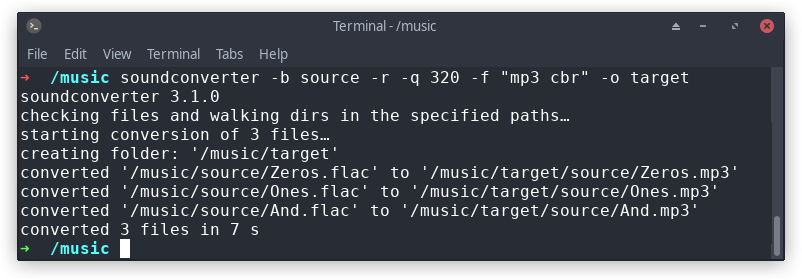
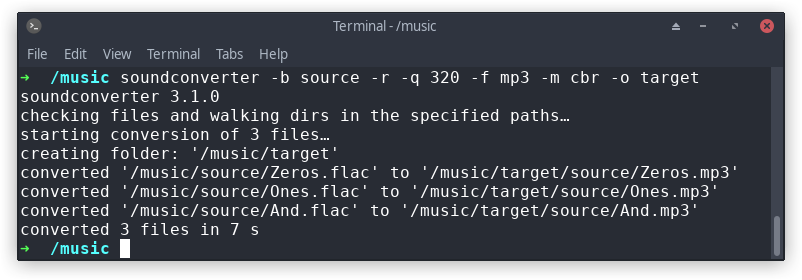
changed to specifying the mode with -m

Changed region(s): [[0.6234, 0.2571, 0.8728, 0.3143]]

diff --git a/tests/testcases/integration.py b/tests/testcases/integration.py
@@ -98,7 +98,7 @@ class BatchIntegration(unittest.TestCase):
             '-f', 'm4a',
             '-q', '320'
         ])
-        self.assertEqual(settings['mode'], 'batch')
+        self.assertEqual(settings['main'], 'batch')
         self.assertEqual(settings['debug'], False)
         self.assertEqual(settings['recursive'], False)
         self.assertTrue(os.path.isfile('tests/tmp/320/a.m4a'))
@@ -130,17 +130,19 @@ class BatchIntegration(unittest.TestCase):
             '-b',
             'tests/test data/audio/a.wav',
             '-o', 'tests/tmp/8',
-            '-f', 'mp3 vbr',
+            '-f', 'mp3',
+            '-m', 'vbr',
             '-q', 8  # smaller
         ])
         launch([
             '-b',
             'tests/test data/audio/a.wav',
             '-o', 'tests/tmp/2',
-            '-f', 'mp3 vbr',
+            '-f', 'mp3',
+            '-m', 'vbr',
             '-q', 2
         ])
-        self.assertEqual(settings['mode'], 'batch')
+        self.assertEqual(settings['main'], 'batch')
         self.assertEqual(settings['debug'], False)
         self.assertEqual(settings['recursive'], False)
         self.assertTrue(os.path.isfile('tests/tmp/8/a.mp3'))
@@ -161,17 +163,19 @@ class BatchIntegration(unittest.TestCase):
             '-b',
             'tests/test data/audio/a.wav',
             '-o', 'tests/tmp/320',
-            '-f', 'mp3 abr',
+            '-f', 'mp3',
+            '-m', 'abr',
             '-q', 320
         ])
         launch([
             '-b',
             'tests/test data/audio/a.wav',
             '-o', 'tests/tmp/112',
-            '-f', 'mp3 abr',
+            '-f', 'mp3',
+            '-m', 'abr',
             '-q', 112
         ])
-        self.assertEqual(settings['mode'], 'batch')
+        self.assertEqual(settings['main'], 'batch')
         self.assertEqual(settings['debug'], False)
         self.assertEqual(settings['recursive'], False)
         self.assertTrue(os.path.isfile('tests/tmp/320/a.mp3'))
@@ -190,10 +194,11 @@ class BatchIntegration(unittest.TestCase):
             '-b',
             'tests/test data/audio/a.wav',
             '-o', 'tests/tmp',
-            '-f', 'mp3 cbr',
+            '-f', 'mp3',
+            '-m', 'cbr',
             '-q', 256
         ])
-        self.assertEqual(settings['mode'], 'batch')
+        self.assertEqual(settings['main'], 'batch')
         self.assertEqual(settings['debug'], False)
         self.assertEqual(settings['recursive'], False)
         self.assertTrue(os.path.isfile('tests/tmp/a.mp3'))
@@ -210,7 +215,7 @@ class BatchIntegration(unittest.TestCase):
                 '-f', 'mp3',
                 '-o', 'tmp'
             ])
-        self.assertEqual(settings['mode'], 'batch')
+        self.assertEqual(settings['main'], 'batch')
         self.assertEqual(settings['debug'], False)
         self.assertEqual(settings['recursive'], False)
         exit_code = ctx.exception.code
@@ -226,7 +231,7 @@ class BatchIntegration(unittest.TestCase):
                 '-o', 'tmp',
                 '-d'
             ])
-        self.assertEqual(settings['mode'], 'batch')
+        self.assertEqual(settings['main'], 'batch')
         self.assertEqual(settings['debug'], True)
         self.assertEqual(settings['recursive'], True)
         the_exception = cm.exception
@@ -241,7 +246,7 @@ class BatchIntegration(unittest.TestCase):
             '-f', 'wav',
             '-q', 24
         ])
-        self.assertEqual(settings['mode'], 'batch')
+        self.assertEqual(settings['main'], 'batch')
         self.assertEqual(settings['debug'], False)
         self.assertEqual(settings['recursive'], True)
         self.assertTrue(os.path.isdir('tests/tmp/audio/'))
@@ -268,7 +273,7 @@ class BatchIntegration(unittest.TestCase):
             '-f', 'opus',
             '-d'
         ])
-        self.assertEqual(settings['mode'], 'batch')
+        self.assertEqual(settings['main'], 'batch')
         self.assertEqual(settings['debug'], True)
         self.assertEqual(settings['recursive'], True)
         # The batch mode behaves like the cp command:
@@ -296,7 +301,7 @@ class BatchIntegration(unittest.TestCase):
             'tests/test data/',
             '-r'
         ])
-        self.assertEqual(settings['mode'], 'tags')
+        self.assertEqual(settings['main'], 'tags')
         self.assertEqual(settings['debug'], False)
         self.assertEqual(settings['recursive'], True)
 
@@ -357,7 +362,7 @@ class GUI(unittest.TestCase):
             'tests/test data/audio/',
             'tests/test data/empty'
         ])
-        self.assertEqual(settings['mode'], 'gui')
+        self.assertEqual(settings['main'], 'gui')
         window = win[0]
 
         # check if directory is read correctly
@@ -441,7 +446,7 @@ class GUI(unittest.TestCase):
         launch([
             'tests/test data/audio/a.wav'
         ])
-        self.assertEqual(settings['mode'], 'gui')
+        self.assertEqual(settings['main'], 'gui')
         self.assertEqual(settings['debug'], False)
 
         window = win[0]
@@ -563,7 +568,7 @@ class GUI(unittest.TestCase):
         launch([
             'tests/test data/audio/a.wav'
         ])
-        self.assertEqual(settings['mode'], 'gui')
+        self.assertEqual(settings['main'], 'gui')
         window = win[0]
 
         # setup for conversion

diff --git a/tests/testcases/batch.py b/tests/testcases/batch.py
@@ -190,55 +190,57 @@ class BatchUtils(unittest.TestCase):
     def test_validate_args(self):
         # input and output
         self.assertFalse(validate_args({
-            'mode': 'batch', 'format': 'mp3 cbr', 'quality': 192
+            'main': 'batch', 'format': 'mp3',
+            'mode': 'cbr', 'quality': 192
         }))
         self.assertFalse(validate_args({
-            'mode': 'batch', 'output-path': '',
-            'format': 'mp3 cbr', 'quality': 192
+            'main': 'batch', 'output-path': '',
+            'format': 'mp3', 'mode': 'cbr', 'quality': 192
         }))
         # formats
         self.assertFalse(validate_args({
-            'mode': 'batch', 'output-path': '.', 'format': 'mp3',
+            'main': 'batch', 'output-path': '.', 'format': 'mp3',
             'quality': 192  # False because it defaults to vbr
         }))
         self.assertTrue(validate_args({
-            'mode': 'batch', 'output-path': '.',
+            'main': 'batch', 'output-path': '.',
             'format': 'mp3', 'quality': 5
         }))
         self.assertFalse(validate_args({
-            'mode': 'batch', 'output-path': '.',
-            'format': 'mp3 vbr', 'quality': 192
+            'main': 'batch', 'output-path': '.',
+            'format': 'mp3', 'mode': 'vbr', 'quality': 192
         }))
         self.assertFalse(validate_args({
-            'mode': 'batch', 'output-path': '.',
-            'format': 'mp3 abr', 'quality': 3
+            'main': 'batch', 'output-path': '.',
+            'format': 'mp3', 'mode': 'abr', 'quality': 3
         }))
         self.assertFalse(validate_args({
-            'mode': 'batch', 'output-path': '.',
-            'format': 'mp3 cbr', 'quality': 400
+            'main': 'batch', 'output-path': '.',
+            'format': 'mp3', 'mode': 'cbr', 'quality': 400
         }))
         self.assertFalse(validate_args({
-            'mode': 'batch', 'output-path': '.',
+            'main': 'batch', 'output-path': '.',
             'format': 'opus', 'quality': 600
         }))
         self.assertFalse(validate_args({
-            'mode': 'batch', 'output-path': '.',
+            'main': 'batch', 'output-path': '.',
             'format': 'wav', 'quality': 13
         }))
         self.assertFalse(validate_args({
-            'mode': 'batch', 'output-path': '.',
+            'main': 'batch', 'output-path': '.',
             'format': 'flac', 'quality': 20
         }))
         self.assertFalse(validate_args({
-            'mode': 'batch', 'output-path': '.',
+            'main': 'batch', 'output-path': '.',
             'format': 'ogg', 'quality': 20
         }))
 
     def test_use_memory_gsettings_cbr(self):
         use_memory_gsettings({
             'output-path': '.',
-            'mode': 'batch',
-            'format': 'mp3 cbr',
+            'main': 'batch',
+            'format': 'mp3',
+            'mode': 'cbr',
             'quality': '320'
         })
         gio_settings = get_gio_settings()
@@ -257,7 +259,7 @@ class BatchUtils(unittest.TestCase):
     def test_use_memory_gsettings_default_mp3_mode(self):
         use_memory_gsettings({
             'output-path': '.',
-            'mode': 'batch',
+            'main': 'batch',
             'format': 'mp3',
             'quality': '5'
         })
@@ -277,7 +279,7 @@ class BatchUtils(unittest.TestCase):
     def test_use_memory_gsettings_ogg(self):
         use_memory_gsettings({
             'output-path': '.',
-            'mode': 'batch',
+            'main': 'batch',
             'format': 'ogg',
             'quality': '0.5'
         })

diff --git a/soundconverter/interface/batch.py b/soundconverter/interface/batch.py
@@ -57,7 +57,7 @@ def use_memory_gsettings(options):
     temporary memory backend so that the ui keeps its settings and cli
     settings are thrown away at the end.
     """
-    if options.get('mode') == 'gui':
+    if options.get('main') == 'gui':
         raise AssertionError('should not be used with the gui mode')
 
     backend = Gio.memory_settings_backend_new()
@@ -68,7 +68,7 @@ def use_memory_gsettings(options):
     # to the input directory instead
     gio_settings.set_boolean('create-subfolders', False)
 
-    if options.get('mode') == 'batch':
+    if options.get('main') == 'batch':
         # the number of jobs is only applied, when limit-jobs is true
         forced_jobs = options.get('forced-jobs', None)
         if forced_jobs is not None:
@@ -77,12 +77,12 @@ def use_memory_gsettings(options):
         else:
             gio_settings.set_boolean('limit-jobs', False)
 
-        format_options = options['format'].split()
-        mime_type = get_mime_type(format_options[0])
+        format_option = options['format']
+        mime_type = get_mime_type(format_option)
 
-        # in case of for example 'mp3 abr'
-        if len(format_options) == 2 and mime_type == 'audio/mpeg':
-            gio_settings.set_string('mp3-mode', format_options[1])
+        mode = options.get('mode')
+        if mode:
+            gio_settings.set_string('mp3-mode', mode)
 
         gio_settings.set_string('output-mime-type', mime_type)
 
@@ -124,8 +124,12 @@ def validate_args(options):
 
     Will log usage mistakes to the console.
     """
-    mode = options.get('mode', 'gui')
-    if mode not in ['gui', 'check', 'tags']:
+    main = options.get('main', 'gui')
+    if main not in ['gui', 'check', 'tags', 'batch']:
+        logger.error('unknown main {}'.format(main))
+        return False
+
+    if main not in ['gui', 'check', 'tags']:
         # not needed for --check and --tags
         if not options.get('output-path'):
             logger.error('output path argument -o is required')
@@ -145,14 +149,10 @@ def validate_args(options):
             logger.error(msg)
             return False
 
-        if mime_type == 'audio/mpeg':
-            if 'cbr' in sys.argv or 'vbr' in sys.argv or 'abr' in sys.argv:
-                # could also be a folder name, so don't return False
-                logger.info(
-                    'You might have forgotten to enclose the mp3 mode in '
-                    'quotes, for example "mp3 cbr" (defaults to vbr with '
-                    '"mp3")'
-                )
+        mode = options.get('mode')
+        if mode and mode not in ['abr', 'cbr', 'vbr']:
+            logger.error('mode should be one of abr, cbr or vbr (default)')
+            return False
 
         # validate if the quality setting makes sense
         quality = options.get('quality')
@@ -160,7 +160,7 @@ def validate_args(options):
         if quality is not None:
             # optional; otherwise default quality values will be used
             if mime_type == 'audio/mpeg':
-                if 'cbr' in target_format or 'abr' in target_format:
+                if mode in ['abr', 'cbr']:
                     if quality > 320 or quality < 64:
                         logger.error(
                             'mp3 cbr/abr bitrate should be between 64 and 320'

diff --git a/tests/testcases/format.py b/tests/testcases/format.py
@@ -102,13 +102,7 @@ class Format(unittest.TestCase):
         self.assertEqual(get_mime_type('flac'), 'audio/x-flac')
         self.assertEqual(get_mime_type('audio/x-flac'), 'audio/x-flac')
         self.assertEqual(get_mime_type('mp3'), 'audio/mpeg')
-        self.assertEqual(get_mime_type('mp3 abr'), 'audio/mpeg')
-        self.assertEqual(get_mime_type('mp3 vbr'), 'audio/mpeg')
-        self.assertEqual(get_mime_type('mp3 cbr'), 'audio/mpeg')
         self.assertEqual(get_mime_type('audio/mpeg'), 'audio/mpeg')
-        self.assertEqual(get_mime_type('audio/mpeg abr'), 'audio/mpeg')
-        self.assertEqual(get_mime_type('audio/mpeg vbr'), 'audio/mpeg')
-        self.assertEqual(get_mime_type('audio/mpeg cbr'), 'audio/mpeg')
 
 
 if __name__ == "__main__":

diff --git a/soundconverter/util/formats.py b/soundconverter/util/formats.py
@@ -50,10 +50,9 @@ def get_mime_type(audio_format):
     Parameters
     ----------
     audio_format : string
-        for example 'mp3', 'audio/mpeg', 'mp3 vbr' or 'audio/mpeg cbr', for
-        which the result would be 'audio/mpeg'
+        for example 'mp3' or 'audio/mpeg' for which the result would
+        be 'audio/mpeg'
     """
-    audio_format = audio_format.split()[0]
     mime_types = get_mime_type_mapping()
     if audio_format not in mime_types.values():
         # possibly a file extension

diff --git a/soundconverter/util/settings.py b/soundconverter/util/settings.py
@@ -37,7 +37,7 @@ _gio_settings = Gio.Settings(schema='org.soundconverter')
 
 # Arguments that can exclusively set over the CLI
 settings = {
-    'mode': 'gui',
+    'main': 'gui',
     'debug': False
 }
 
